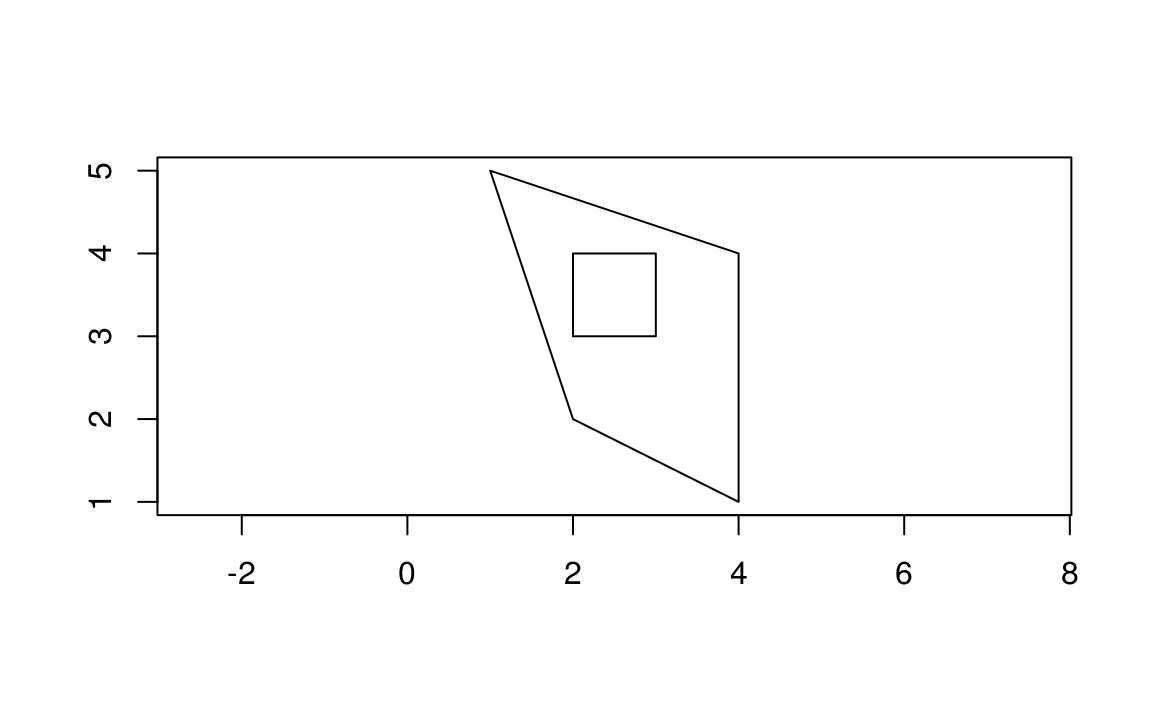
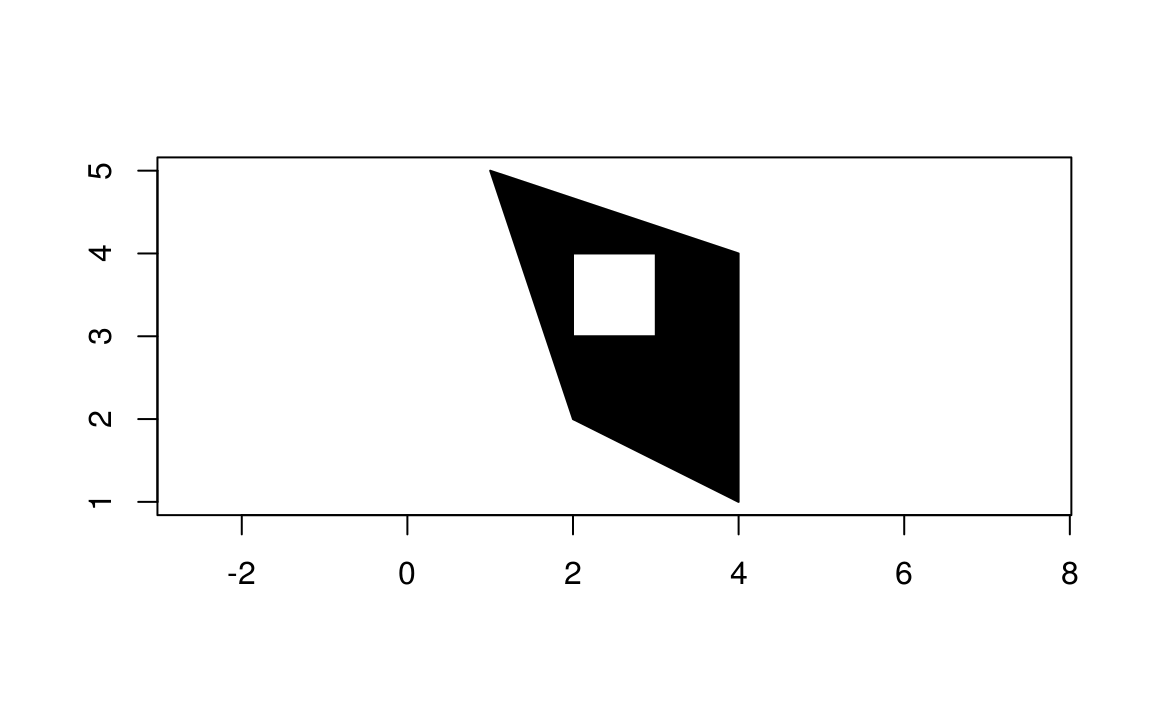
Updating book (278)

Changed region(s): [[0.4062, 0.2475, 0.6562, 0.7117]]

diff --git a/read-write.html b/read-write.html
@@ -258,12 +258,12 @@ world =<span class="st"> </span><span class="kw">st_read</span>(f)
 <div class="sourceCode"><pre class="sourceCode r"><code class="sourceCode r"><span class="kw">library</span>(microbenchmark)
 read_world_gpkg =<span class="st"> </span><span class="kw">bench_read</span>(<span class="dt">file =</span> f, <span class="dt">n =</span> <span class="dv">5</span>)</code></pre></div>
 <div class="sourceCode"><pre class="sourceCode r"><code class="sourceCode r">read_world_gpkg
-<span class="co">#&gt; [1] 2.35</span></code></pre></div>
+<span class="co">#&gt; [1] 2.4</span></code></pre></div>
 <p>The results demonstrate that <strong>sf</strong> was around 2 times faster than <strong>rgdal</strong> at reading-in the world countries shapefile. The relative performance of <code>st_read()</code> compared with other functions will vary depending on file format and the nature of the data. To illustrate this point, we performed the same operation on a geojson file and found a greater speed saving:</p>
 <div class="sourceCode"><pre class="sourceCode r"><code class="sourceCode r">f =<span class="st"> </span><span class="kw">system.file</span>(<span class="st">&quot;shapes/lnd.geojson&quot;</span>, <span class="dt">package =</span> <span class="st">&quot;spData&quot;</span>)
 read_lnd_geojson =<span class="st"> </span><span class="kw">bench_read</span>(<span class="dt">file =</span> f, <span class="dt">n =</span> <span class="dv">5</span>)</code></pre></div>
 <div class="sourceCode"><pre class="sourceCode r"><code class="sourceCode r">read_lnd_geojson
-<span class="co">#&gt; [1] 3.12</span></code></pre></div>
+<span class="co">#&gt; [1] 3.02</span></code></pre></div>
 <p>In this case <strong>sf</strong> was around 3 times faster than <strong>rgdal</strong>.</p>
 <p>The full range of file-types supported by <strong>sf</strong> is reported by <code>st_drivers()</code>, the first 2 of which are shown below:</p>
 <div class="sourceCode"><pre class="sourceCode r"><code class="sourceCode r">sf_drivers =<span class="st"> </span><span class="kw">st_drivers</span>()
@@ -303,13 +303,13 @@ read_lnd_geojson =<span class="st"> </span><span class="kw">bench_read</span>(<s
 <p>The counterpart of <code>st_read()</code> is <code>st_write()</code>. This allows writing to a range of geographic vector file types, including the common formats <code>.geojson</code>, <code>.shp</code> and <code>.gpkg</code>. <code>st_read()</code> will decide which driver to use automatically, based on the file name, as illustrated in the benchmark below demonstrating write speeds for each format.</p>
 <div class="sourceCode"><pre class="sourceCode r"><code class="sourceCode r"><span class="kw">system.time</span>(<span class="kw">st_write</span>(world, <span class="st">&quot;world.geojson&quot;</span>, <span class="dt">quiet =</span> <span class="ot">TRUE</span>))
 <span class="co">#&gt;    user  system elapsed </span>
-<span class="co">#&gt;   0.060   0.004   0.064</span>
+<span class="co">#&gt;   0.068   0.000   0.068</span>
 <span class="kw">system.time</span>(<span class="kw">st_write</span>(world, <span class="st">&quot;world.shp&quot;</span>, <span class="dt">quiet =</span> <span class="ot">TRUE</span>)) 
 <span class="co">#&gt;    user  system elapsed </span>
-<span class="co">#&gt;   0.012   0.000   0.013</span>
+<span class="co">#&gt;   0.012   0.004   0.014</span>
 <span class="kw">system.time</span>(<span class="kw">st_write</span>(world, <span class="st">&quot;world.gpkg&quot;</span>, <span class="dt">quiet =</span> <span class="ot">TRUE</span>))
 <span class="co">#&gt;    user  system elapsed </span>
-<span class="co">#&gt;   0.024   0.004   0.028</span></code></pre></div>
+<span class="co">#&gt;   0.020   0.012   0.031</span></code></pre></div>
 </div>
 <div id="file-formats" class="section level2">
 <h2><span class="header-section-number">5.3</span> File formats</h2>

diff --git a/spatial-class.html b/spatial-class.html
@@ -427,11 +427,11 @@ Figure 2.4: Centroids representing country population, diameter being proportion
 <p>Linestring cannot have self intersecting line part. In other words, lines shouldn’t pass through the same point twice (except for the endpoint).</p>
 <p>A polygon is a sequence of points, where the first and last point have the same coordinates. Similarly to linestring, polygon needs to create a non-self intersecting ring. By the definition, polygon has one exterior boundary (outer ring) and zero or more interior boundaries (inner ring). These interior boundaries are often known as holes.</p>
 <ul>
-<li>Zero interior boundaries (holes) - <code>POLYGON ((1 5, 4 4, 4 1, 2 2, 1 5))</code></li>
+<li>Zero interior boundaries (holes) - <code>POLYGON ((1 5, 2 2, 4 1, 4 4, 1 5))</code></li>
 </ul>
 <p><img src="figures/polygon-1.png" width="576" style="display: block; margin: auto;" /></p>
 <ul>
-<li>One hole - <code>POLYGON ((1 5, 4 4, 4 1, 2 2, 1 5), (2 4, 3 4, 3 3, 2 3))</code></li>
+<li>One hole - <code>POLYGON ((1 5, 4 4, 4 1, 2 2, 1 5), (2 4, 3 4, 3 3, 2 3, 2 4))</code></li>
 </ul>
 <p><img src="figures/polygon_hole-1.png" width="576" style="display: block; margin: auto;" /></p>
 <p>The next three geometry types are the sets of previous ones: a multipoint is a set of points, multilinestring is a set strings and multipolygon is a set of polygons:</p>

diff --git a/main.md b/main.md
@@ -159,7 +159,7 @@ leaflet() %>%
 ```
 
 <div class="figure" style="text-align: center">
-preserve5a512b0d0a9e3c67
+preserve3c3d1033964ac622
 <p class="caption">(\#fig:interactive)World at night imagery from NASA overlaid by the authors' approximate home locations to illustrate interactive mapping with R.</p>
 </div>
 
@@ -548,11 +548,11 @@ Similarly to linestring, polygon needs to create a non-self intersecting ring.
 By the definition, polygon has one exterior boundary (outer ring) and zero or more interior boundaries (inner ring).
 These interior boundaries are often known as holes.
 
-- Zero interior boundaries (holes) - `POLYGON ((1 5, 4 4, 4 1, 2 2, 1 5))`
+- Zero interior boundaries (holes) - `POLYGON ((1 5, 2 2, 4 1, 4 4, 1 5))`
 
 <img src="figures/polygon-1.png" width="576" style="display: block; margin: auto;" />
 
-- One hole - `POLYGON ((1 5, 4 4, 4 1, 2 2, 1 5), (2 4, 3 4, 3 3, 2 3))`
+- One hole - `POLYGON ((1 5, 4 4, 4 1, 2 2, 1 5), (2 4, 3 4, 3 3, 2 3, 2 4))`
 
 <img src="figures/polygon_hole-1.png" width="576" style="display: block; margin: auto;" />
 
@@ -1867,7 +1867,7 @@ read_world_gpkg = bench_read(file = f, n = 5)
 
 ```r
 read_world_gpkg
-#> [1] 2.35
+#> [1] 2.4
 ```
 
 The results demonstrate that **sf** was around 2 times faster than **rgdal** at reading-in the world countries shapefile.
@@ -1883,7 +1883,7 @@ read_lnd_geojson = bench_read(file = f, n = 5)
 
 ```r
 read_lnd_geojson
-#> [1] 3.12
+#> [1] 3.02
 ```
 
 In this case **sf** was around 3 times faster than **rgdal**.
@@ -1983,13 +1983,13 @@ The counterpart of `st_read()` is `st_write()`. This allows writing to a range o
 ```r
 system.time(st_write(world, "world.geojson", quiet = TRUE))
 #>    user  system elapsed 
-#>   0.060   0.004   0.064
+#>   0.068   0.000   0.068
 system.time(st_write(world, "world.shp", quiet = TRUE)) 
 #>    user  system elapsed 
-#>   0.012   0.000   0.013
+#>   0.012   0.004   0.014
 system.time(st_write(world, "world.gpkg", quiet = TRUE))
 #>    user  system elapsed 
-#>   0.024   0.004   0.028
+#>   0.020   0.012   0.031
 ```
 
 
